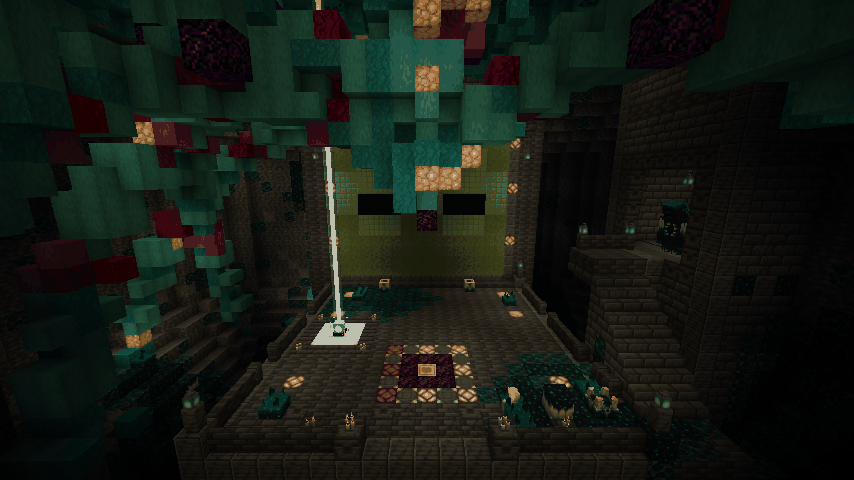
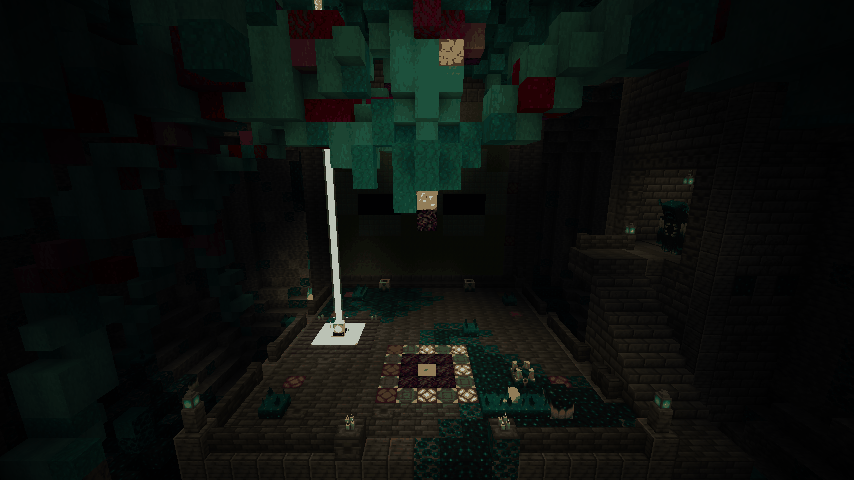
Ancient Fabricators, lighting pass: dark like an ancient city (pad ring and the dripper's glowing spine as the main lights, sparse lanterns and candles, unlit deck and face lamps); shots without night vision, block light printed; addendum (C1)
Claude-Session: https://claude.ai/code/session_01BJp3bVUq6285x623YGx2kD

diff --git a/mods/bubbas_reworked_mobs/src/main/java/io/github/bubba8587/bubbas_reworked_mobs/factory/FactoryDesign.java b/mods/bubbas_reworked_mobs/src/main/java/io/github/bubba8587/bubbas_reworked_mobs/factory/FactoryDesign.java
@@ -336,7 +336,7 @@ public final class FactoryDesign {
 	private BlockState massBlock(int x, int y, int z) {
 		double h = hash(x, y, z, 5);
 		double n = noise(x * 0.22, y * 0.3, z * 0.22, 1);
-		if (h < 0.035) {
+		if (h < 0.003) {
 			return Blocks.SHROOMLIGHT.defaultBlockState();
 		}
 		if (crimsonStreak(x, y, z)) {
@@ -439,11 +439,11 @@ public final class FactoryDesign {
 					boolean outer = dist > radius - 1.0;
 					BlockState s;
 					if (t < 0.3 && outer) {
-						s = hash(x, y, z, 33) < 0.1 ? Blocks.SHROOMLIGHT.defaultBlockState() : Blocks.WARPED_WART_BLOCK.defaultBlockState();
+						s = Blocks.WARPED_WART_BLOCK.defaultBlockState();
 					} else if (!outer && dist < 0.5 && Math.floorMod(d, 4) == 2 && t > 0.2) {
 						s = Blocks.SHROOMLIGHT.defaultBlockState(); // a gland in the core
-					} else if (outer && t >= 0.3 && hash(x, y, z, 34) < 0.08) {
-						s = Blocks.SHROOMLIGHT.defaultBlockState(); // a gland on the skin
+					} else if (radius < 1.6 ? dist < 0.5 && Math.floorMod(d, 2) == 1 : outer && t >= 0.3 && Math.floorMod(d, 4) == 1 && hash(x, y, z, 34) < 0.4) {
+						s = Blocks.SHROOMLIGHT.defaultBlockState(); // glands: rings on the skin of the thick part, every other block down the thin spine; the dripper glows
 					} else if (outer && crimsonStreak(x, y, z)) {
 						s = crimson(x, y, z);
 					} else {
@@ -463,7 +463,7 @@ public final class FactoryDesign {
 			int len = 1 + (int) (hash(x, top, z, 35) * 2.99);
 			for (int k = 0; k < len; k++) {
 				if (isOpen(x, top - k, z)) {
-					solid(x, top - k, z, k == len - 1 && i % 2 == 0 ? Blocks.SHROOMLIGHT.defaultBlockState() : Blocks.WARPED_WART_BLOCK.defaultBlockState());
+					solid(x, top - k, z, Blocks.WARPED_WART_BLOCK.defaultBlockState());
 				}
 			}
 		}
@@ -493,7 +493,7 @@ public final class FactoryDesign {
 			}
 		}
 		if (!nearBeam(x0, z0, 1.5) && isOpen(x0, y, z0)) {
-			solid(x0, y, z0, hash(x0, y, z0, 36) < 0.45 ? Blocks.CRYING_OBSIDIAN.defaultBlockState() : Blocks.WARPED_WART_BLOCK.defaultBlockState());
+			solid(x0, y, z0, hash(x0, y, z0, 36) < 0.2 ? Blocks.CRYING_OBSIDIAN.defaultBlockState() : Blocks.WARPED_WART_BLOCK.defaultBlockState());
 		}
 	}
 
@@ -538,7 +538,7 @@ public final class FactoryDesign {
 					{ e - 1.5, -5.0 + this.random.nextDouble() * 2.0, 0.0 },
 					{ e - 2.0, 14.0, turn * 0.2 },
 					{ 9.0, 18.0, turn * 0.65 },
-					{ 1.6, endY, turn },
+					{ 2.6, endY, turn },
 			};
 			int step = 0;
 			int knots = 0;
@@ -571,7 +571,7 @@ public final class FactoryDesign {
 					for (int yy = (int) Math.floor(y) - reach; yy <= (int) Math.ceil(y) + reach; yy++) {
 						for (int z = (int) Math.floor(cz) - reach; z <= (int) Math.ceil(cz) + reach; z++) {
 							double d = Math.sqrt((x - cx) * (x - cx) + (yy - y) * (yy - y) + (z - cz) * (z - cz));
-							if (d > radius || nearBeam(x, z, 1.6) || inTower(x, z)
+							if (d > radius || nearBeam(x, z, 1.6) || inTower(x, z) || Math.hypot(x, z - DROP_Z) < 1.9 && yy < ceil(0, DROP_Z) - 4
 									|| yy <= 1 && Math.abs(x) <= PX + 1 && z >= PZ_BACK && z <= PZ_FRONT) {
 								continue;
 							}
@@ -581,7 +581,7 @@ public final class FactoryDesign {
 							} else if (crimsonStreak(x, yy, z)) {
 								s = crimson(x, yy, z);
 							} else {
-								s = hash(x, yy, z, 22) < 0.04 ? Blocks.SHROOMLIGHT.defaultBlockState() : Blocks.WARPED_WART_BLOCK.defaultBlockState();
+								s = Blocks.WARPED_WART_BLOCK.defaultBlockState();
 							}
 							solid(x, yy, z, s);
 						}
@@ -632,7 +632,7 @@ public final class FactoryDesign {
 					attach(x, f + 1, z, Blocks.SCULK_SENSOR.defaultBlockState());
 				} else if (h < 0.026) {
 					set(x, f, z, Blocks.SCULK_CATALYST.defaultBlockState());
-				} else if (underPlatform && h < 0.06) {
+				} else if (underPlatform && h < 0.045) {
 					// Soul fire smouldering in the pit under the platform.
 					set(x, f, z, Blocks.SOUL_SOIL.defaultBlockState());
 					attach(x, f + 1, z, Blocks.SOUL_FIRE.defaultBlockState());
@@ -707,11 +707,10 @@ public final class FactoryDesign {
 				}
 			}
 		}
-		// Lit redstone lamps set into the deck, each on a redstone block (their power), in two lines down the sides.
+		// Redstone lamps set into the deck in two lines down the sides, unlit: the pad's timer ring is the deck's light.
 		for (int z : new int[] { -8, -4, 4 }) {
 			for (int x : new int[] { -7, 7 }) {
-				solid(x, -1, z, Blocks.REDSTONE_LAMP.defaultBlockState().setValue(RedstoneLampBlock.LIT, true));
-				solid(x, -2, z, Blocks.REDSTONE_BLOCK.defaultBlockState());
+				solid(x, -1, z, Blocks.REDSTONE_LAMP.defaultBlockState());
 			}
 		}
 		// The teleporter pad: a lodestone ringed by crying obsidian, then the timer ring (owner, 2026-11-16: a
@@ -743,8 +742,8 @@ public final class FactoryDesign {
 		}
 		solid(BEAM_X, 0, BEAM_Z, Blocks.BEACON.defaultBlockState());
 		for (int dx : new int[] { -2, 2 }) {
-			for (int dz : new int[] { -2, 2 }) {
-				attach(BEAM_X + dx, 0, BEAM_Z + dz, candle(3 + (int) (hash(dx, 0, dz, 4) * 1.99)));
+			for (int dz : new int[] { -2 }) {
+				attach(BEAM_X + dx, 0, BEAM_Z + dz, candle(1 + (int) (hash(dx, 0, dz, 4) * 1.99)));
 			}
 		}
 		// Rim: low tile walls along the sides and front (a gap to the front and to the Warden's stairs).
@@ -761,12 +760,14 @@ public final class FactoryDesign {
 				attach(x, 0, PZ_FRONT, Blocks.DEEPSLATE_TILE_WALL.defaultBlockState());
 			}
 		}
-		// Corner posts with soul lanterns.
+		// Corner posts; soul lanterns on the front two only (owner: dark like an ancient city).
 		for (int x : new int[] { -PX, PX }) {
 			for (int z : new int[] { PZ_BACK, PZ_FRONT }) {
 				solid(x, 0, z, Blocks.POLISHED_DEEPSLATE.defaultBlockState());
 				solid(x, 1, z, Blocks.POLISHED_DEEPSLATE_WALL.defaultBlockState());
-				attach(x, 2, z, Blocks.SOUL_LANTERN.defaultBlockState());
+				if (z == PZ_FRONT) {
+					attach(x, 2, z, Blocks.SOUL_LANTERN.defaultBlockState());
+				}
 			}
 		}
 		// Front posts by the entrance gap.
@@ -780,8 +781,6 @@ public final class FactoryDesign {
 		attach(-7, 0, 6, Blocks.SCULK_SENSOR.defaultBlockState());
 		attach(7, 0, -6, Blocks.SCULK_SENSOR.defaultBlockState());
 		attach(4, 0, 6, Blocks.CALIBRATED_SCULK_SENSOR.defaultBlockState().setValue(BlockStateProperties.HORIZONTAL_FACING, Direction.EAST));
-		attach(-5, 0, 7, candle(2));
-		attach(6, 0, 7, candle(3));
 	}
 
 	private BlockState deckTop(int x, int z) {
@@ -831,15 +830,13 @@ public final class FactoryDesign {
 				}
 			}
 		}
-		// Lit redstone lamps set into the frame (powered from behind) so the face reads in the dark.
+		// Redstone lamps set into the frame, unlit (owner: dark like an ancient city; you bring a torch).
 		for (int x : new int[] { -7, -3, 2, 6 }) {
-			solid(x, 17, WALL_Z, Blocks.REDSTONE_LAMP.defaultBlockState().setValue(RedstoneLampBlock.LIT, true));
-			solid(x, 17, WALL_Z - 1, Blocks.REDSTONE_BLOCK.defaultBlockState());
+			solid(x, 17, WALL_Z, Blocks.REDSTONE_LAMP.defaultBlockState());
 		}
 		for (int x : new int[] { -9, 8 }) {
 			for (int y : new int[] { 4, 9, 13 }) {
-				solid(x, y, WALL_Z, Blocks.REDSTONE_LAMP.defaultBlockState().setValue(RedstoneLampBlock.LIT, true));
-				solid(x, y, WALL_Z - 1, Blocks.REDSTONE_BLOCK.defaultBlockState());
+				solid(x, y, WALL_Z, Blocks.REDSTONE_LAMP.defaultBlockState());
 			}
 		}
 		// A shelf of tile slabs under the face, and soul lanterns hanging either side.
@@ -849,7 +846,7 @@ public final class FactoryDesign {
 		for (int x : new int[] { -10, 9 }) {
 			solid(x, 14, WALL_Z + 1, Blocks.DEEPSLATE_TILE_STAIRS.defaultBlockState().setValue(StairBlock.FACING, Direction.NORTH).setValue(StairBlock.HALF, Half.TOP));
 			attach(x, 13, WALL_Z + 1, Blocks.IRON_CHAIN.defaultBlockState());
-			attach(x, 12, WALL_Z + 1, Blocks.SOUL_LANTERN.defaultBlockState().setValue(LanternBlock.HANGING, true));
+
 		}
 	}
 
@@ -889,7 +886,6 @@ public final class FactoryDesign {
 		// the back wall, a desk (tile slab on a lectern-and-stair frame) and a jukebox playing an eerie disc
 		// (music disc 13, loaded when the factory is placed). A sculk catalyst in the corner, where it grew in.
 		attach(17, 10, -2, Blocks.SOUL_LANTERN.defaultBlockState().setValue(LanternBlock.HANGING, true));
-		attach(17, 10, 2, Blocks.SOUL_LANTERN.defaultBlockState().setValue(LanternBlock.HANGING, true));
 		for (int x = 15; x <= 19; x++) {
 			for (int z = -3; z <= 3; z++) {
 				solid(x, 5, z, Blocks.WOOL.gray().defaultBlockState());
@@ -930,11 +926,9 @@ public final class FactoryDesign {
 			}
 			attach(x, 6, -1, Blocks.DEEPSLATE_TILE_WALL.defaultBlockState());
 		}
-		attach(10, 7, -1, Blocks.SOUL_LANTERN.defaultBlockState());
 		attach(13, 7, -1, Blocks.SOUL_LANTERN.defaultBlockState());
 		// A lamp in the floor under the Warden, so it shows in its window.
-		solid(16, 5, 1, Blocks.REDSTONE_LAMP.defaultBlockState().setValue(RedstoneLampBlock.LIT, true));
-		solid(16, 4, 1, Blocks.REDSTONE_BLOCK.defaultBlockState());
+
 		// Stairs down from the ledge to a walkway beside the deck.
 		for (int k = 0; k <= 4; k++) {
 			int z = 2 + k;

diff --git a/mods/bubbas_reworked_mobs/src/gametest/java/io/github/bubba8587/bubbas_reworked_mobs/test/FactoriesClientGameTest.java b/mods/bubbas_reworked_mobs/src/gametest/java/io/github/bubba8587/bubbas_reworked_mobs/test/FactoriesClientGameTest.java
@@ -14,8 +14,9 @@ import net.fabricmc.fabric.api.client.gametest.v1.context.TestSingleplayerContex
 /**
  * The look of an Ancient Fabricator (mob factory) (specs/mob-factory.md; client part {@code factories}): builds factories with the op
  * command deep under a real (default-preset) world and photographs them. A zombie factory from many angles
- * (factory-overview, -overview-lit with night vision, -side, -ceiling, -ceiling-close, -platform, -face, -warden,
- * -beam, -tower), then one wall and overview per other mob (factory-face-creeper, ...). Run with
+ * (factory-overview, -side, the dripper from below, the side and the pad, -platform, sculk close-ups, -pad, -face,
+ * -warden, -office, -beam, -tower, -chains; all without night vision, as in play, except one labelled
+ * -overview-nightvision); it prints block light at a few spots ("[fabricator-light]"), then one wall and overview per other mob (factory-face-creeper, ...). Run with
  * {@code -PwithBeacons} to see the paired beam (Reworked Beacons on the classpath).
  */
 @SuppressWarnings("UnstableApiUsage")
@@ -71,7 +72,6 @@ public class FactoriesClientGameTest implements FabricClientGameTest {
 		shot(context, server, o, 0.5, 5.0, 12.5, 180.0F, 30.0F, "factory-platform");
 		shot(context, server, o, -3.5, 2.6, -3.5, 150.0F, 38.0F, "factory-sculk-deck");
 		shot(context, server, o, 6.5, 3.0, 11.5, -140.0F, 18.0F, "factory-sculk-stairs");
-		shot(context, server, o, -9.5, -2.0, 13.5, 140.0F, 25.0F, "factory-sculk-floor");
 		// The teleporter pad mid-count, its particles running (they run even with nothing on it: a player could ride it).
 		tp(context, server, o.getX() + 0.5, o.getY() + 3.5, o.getZ() + 9.5, 180.0F, 35.0F);
 		context.waitTicks(10);
@@ -87,11 +87,24 @@ public class FactoriesClientGameTest implements FabricClientGameTest {
 		shot(context, server, o, 15.3, 8.6, -2.6, -42.0F, 32.0F, "factory-office");
 		shot(context, server, o, 2.5, 3.0, 4.5, 122.0F, -35.0F, "factory-beam");
 		shot(context, server, o, -6.5, 8.0, 10.5, 240.0F, 10.0F, "factory-tower");
+		shot(context, server, o, 3.5, 3.0, 9.5, 130.0F, -28.0F, "factory-chains");
+		// Block light at a few spots (owner: dark like an ancient city), printed for the report.
+		System.out.println("[fabricator-light] " + server.computeOnServer(srv -> {
+			net.minecraft.server.level.ServerLevel level = srv.overworld();
+			StringBuilder out = new StringBuilder();
+			int[][] spots = { { 0, 0, 3 }, { 0, 0, 0 }, { -7, 0, -8 }, { 7, 0, 7 }, { 0, 0, 8 }, { 0, 8, -9 }, { -6, 1, -1 },
+					{ 16, 6, -1 }, { 12, 6, 0 }, { 0, 7, 3 }, { -15, -4, 6 }, { 15, -4, 12 }, { 0, 2, 20 } };
+			String[] names = { "pad middle", "deck centre", "deck back-left", "deck front-right", "deck front edge", "face wall middle",
+					"beside the floor beacon", "office", "window ledge", "under the dripper tip", "cavern floor west", "cavern floor east", "tunnel" };
+			for (int k = 0; k < spots.length; k++) {
+				BlockPos p = o.offset(spots[k][0], spots[k][1], spots[k][2]);
+				out.append(names[k]).append(' ').append(level.getBrightness(net.minecraft.world.level.LightLayer.BLOCK, p)).append("; ");
+			}
+			return out.toString();
+		}));
+		// One overview with night vision for detail (not how it looks in play).
 		server.runCommand("effect give @p minecraft:night_vision infinite 0 true");
-		shot(context, server, o, 0.5, 9.0, 18.5, 180.0F, 12.0F, "factory-overview-lit");
-		shot(context, server, o, 6.5, 6.0, 12.5, 150.0F, -8.0F, "factory-side-lit");
-		shot(context, server, o, 3.5, 3.0, 9.5, 130.0F, -28.0F, "factory-chains-lit");
-		shot(context, server, o, 8.5, 6.0, 8.5, 90.0F, -12.0F, "factory-chains-lit-2");
+		shot(context, server, o, 0.5, 9.0, 18.5, 180.0F, 12.0F, "factory-overview-nightvision");
 		server.runCommand("effect clear @p");
 	}
 

diff --git a/docs/reports/factories-light-2026-11-16.md b/docs/reports/factories-light-2026-11-16.md
@@ -1,0 +1,51 @@
+<!-- dte:C1 -->
+# Docs report addendum: Ancient Fabricators, lighting pass (2026-11-16)
+
+Adds to `factories-docs-2026-11-16.md` and `factories-look2-2026-11-16.md`. Look only.
+
+## Owner's feedback
+Too much light. A Fabricator should be dark like an ancient city: the pad and the dripper glow out of the gloom, and you need a torch to explore.
+
+## Light sources now (as built)
+- **Dripper (main glow above):**
+  - its thin lower half is a beaded spine with a shroomlight every other block;
+  - rings of shroomlight glands (40 %) on the thick upper skin, and a core gland every 4 blocks;
+  - a crying obsidian tip (light 10) over the pad.
+  - The chains now stop just short of the stalk (a 1.9-block clear cylinder) so they don't bury it.
+- **Teleporter pad (main glow on the deck):** the lamp-ring timer (5 of 8 lit, light 15 each), plus its crying obsidian ring (light 10).
+- **The paired beacons:** each is light 15 (vanilla). The floor beacon lights its own corner of the deck.
+- **Accents, kept faint and sparse:**
+  - roof mass: shroomlight 3.5 % → 0.3 %; none in the chains or the dripper's collar and strands;
+  - small drippers: crying obsidian tips 45 % → 20 %;
+  - soul lanterns: only the deck's 2 front corner posts, 1 in the office, 1 on the window ledge (was 10 in all);
+  - candles: 2 by the floor beacon, 2 by the entrance, 2 in the office;
+  - soul fire in the pit under the deck: about 25 % less;
+  - sculk's own faint glow.
+- **Switched off:** the deck's 6 redstone lamps and the face frame's 10 lamps (still placed, unlit, no power under them), the 2 lanterns hanging by the face wall, the lamp under the Warden.
+
+## Block light measured (client test prints `[fabricator-light]`, zombie Fabricator, seed 1000)
+
+| Spot | Block light |
+|---|---|
+| pad middle | 12 |
+| deck centre | 13 |
+| beside the floor beacon | 14 |
+| deck front edge (by the entrance candles and lanterns) | 11 |
+| deck back-left / front-right | 7 / 7 |
+| under the dripper tip | 11 |
+| window ledge | 7 |
+| office | 6 |
+| face wall middle | 2 |
+| cavern floor west (soul fire nearby) / east | 5 / 0 |
+| tunnel | 1 |
+
+The deck's middle and the pad are bright. The face wall, the cavern floor, the tunnel and most of the roof are 0-5, so hostile mobs could spawn there (vanilla needs block light 0). The face reads faintly from the deck and properly with a torch.
+
+## Screenshots
+- All shots in `docs/previews/factories/` are now taken **without night vision**, as in play.
+- Exception: one detail shot, labelled `fabricator-overview-nightvision.png`.
+- The old `-lit` shots are gone; `fabricator-side.png` and `fabricator-chains.png` replace them.
+
+## Choices to hear about
+- The **floor beacon's own light (15)** keeps one corner of the deck bright. It's part of the paired beacon (the debuff source), so I left it.
+- **The face wall is dark until you bring light.** If the owner wants it to loom out of the dark, two lit lamps at the top of its frame would do it.
